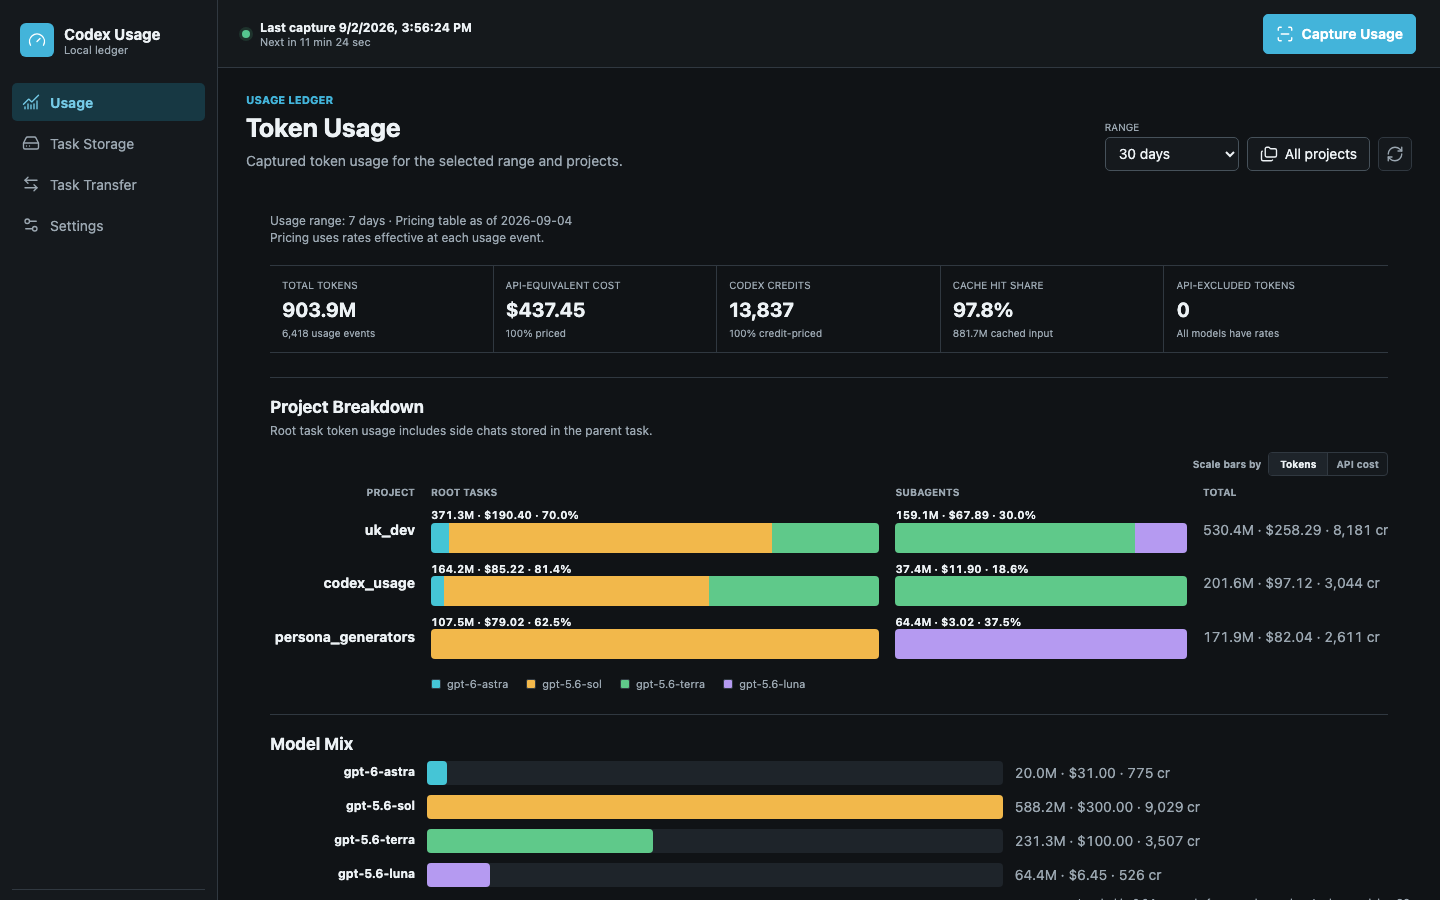
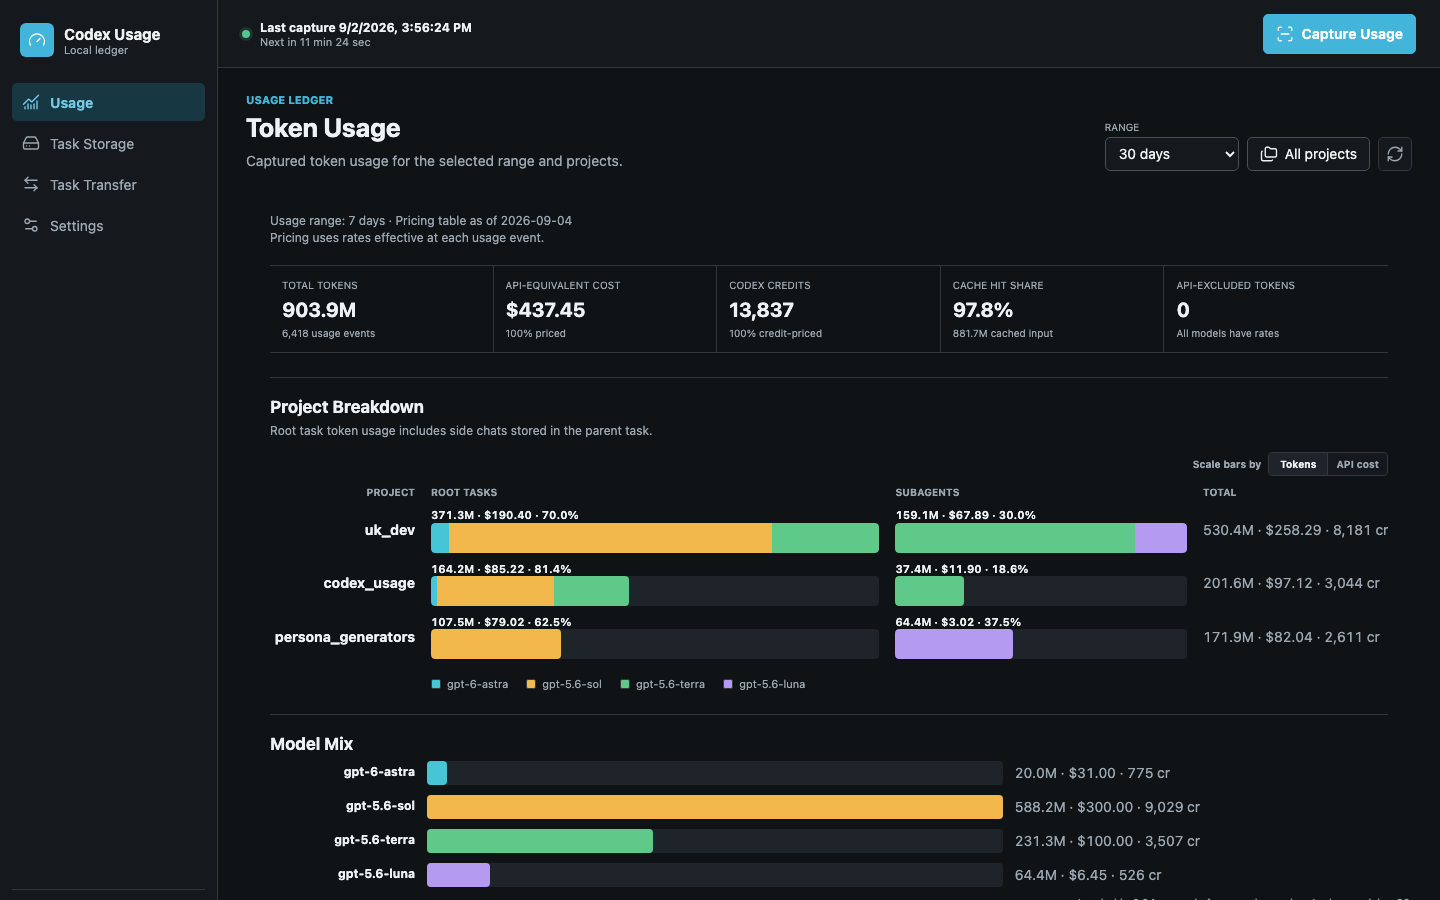
test: exercise usage chart scale fixture

Changed region(s): [[0.375, 0.6222, 0.625, 0.7467], [0.6562, 0.6222, 0.8438, 0.7467], [0.2812, 0.6533, 0.3125, 0.6844]]

diff --git a/apps/desktop/src/usageFixtureReport.ts b/apps/desktop/src/usageFixtureReport.ts
@@ -54,16 +54,27 @@ body {
 h2 { margin: 0 0 4px; font-size: 17px; }
 .help { margin: 0 0 12px; color: var(--muted); font-size: 12px; }
 .project-scroll { overflow-x: auto; }
+.scale-input { position: absolute; width: 1px; height: 1px; opacity: 0; pointer-events: none; }
 .scale-toolbar { display: flex; align-items: center; justify-content: flex-end; gap: 7px; margin-bottom: 9px; color: var(--muted); font-size: 10px; font-weight: 700; }
 .scale-options { display: inline-flex; overflow: hidden; border: 1px solid var(--line); border-radius: 4px; background: var(--surface); }
-.scale-options span { min-width: 58px; padding: 4px 8px; text-align: center; }
-.scale-options span + span { border-left: 1px solid var(--line); }
-.scale-options .selected { background: var(--soft); color: var(--text); }
+.scale-options label { min-width: 58px; padding: 4px 8px; cursor: pointer; text-align: center; }
+.scale-options label + label { border-left: 1px solid var(--line); }
+#project-scale-tokens:checked ~ .scale-toolbar label[for="project-scale-tokens"],
+#project-scale-cost:checked ~ .scale-toolbar label[for="project-scale-cost"] { background: var(--soft); color: var(--text); }
+#project-scale-tokens:focus-visible ~ .scale-toolbar label[for="project-scale-tokens"],
+#project-scale-cost:focus-visible ~ .scale-toolbar label[for="project-scale-cost"] { outline: 2px solid var(--astra); outline-offset: -2px; }
 .project-grid { display: grid; grid-template-columns: 145px minmax(210px, 1fr) minmax(170px, .65fr) 185px; gap: 8px 16px; align-items: center; }
 .column { color: var(--muted); font-size: 10px; font-weight: 700; text-transform: uppercase; }
 .project { text-align: right; }
 .role-metric { font-size: 11px; font-weight: 650; font-variant-numeric: tabular-nums; }
-.track { display: flex; height: 30px; overflow: hidden; border-radius: 4px; background: var(--soft); }
+.track { height: 30px; overflow: hidden; border-radius: 4px; background: var(--soft); }
+.role-fill { display: flex; width: var(--token-width); height: 100%; overflow: hidden; border-radius: 4px; }
+.segment { display: block; flex: 0 0 auto; width: var(--token-width); height: 100%; }
+.cost-share { display: none; }
+#project-scale-cost:checked ~ .project-grid .role-fill,
+#project-scale-cost:checked ~ .project-grid .segment { width: var(--cost-width); }
+#project-scale-cost:checked ~ .project-grid .token-share { display: none; }
+#project-scale-cost:checked ~ .project-grid .cost-share { display: inline; }
 .astra { background: var(--astra); }
 .sol { background: var(--sol); }
 .terra { background: var(--terra); }
@@ -102,20 +113,22 @@ h2 { margin: 0 0 4px; font-size: 17px; }
   <h2>Project Breakdown</h2>
   <p class="help">Root task token usage includes side chats stored in the parent task.</p>
   <div class="project-scroll">
-    <div class="scale-toolbar"><span>Scale bars by</span><span class="scale-options"><span class="selected">Tokens</span><span>API cost</span></span></div>
+    <input class="scale-input" type="radio" name="project-scale" id="project-scale-tokens" value="tokens" checked>
+    <input class="scale-input" type="radio" name="project-scale" id="project-scale-cost" value="cost">
+    <div class="scale-toolbar"><span>Scale bars by</span><span class="scale-options" role="group" aria-label="Project bar scale"><label for="project-scale-tokens">Tokens</label><label for="project-scale-cost">API cost</label></span></div>
     <div class="project-grid">
       <span class="column project">Project</span><span class="column">Root tasks</span><span class="column">Subagents</span><span class="column">Total</span>
       <strong class="project">uk_dev</strong>
-      <div><div class="role-metric">371.3M · $190.40 · 70.0%</div><div class="track"><span class="astra" style="width:4%"></span><span class="sol" style="width:72%"></span><span class="terra" style="width:24%"></span></div></div>
-      <div><div class="role-metric">159.1M · $67.89 · 30.0%</div><div class="track"><span class="terra" style="width:82%"></span><span class="luna" style="width:18%"></span></div></div>
+      <div><div class="role-metric">371.3M · $190.40 · <span class="token-share">70.0%</span><span class="cost-share">73.7%</span></div><div class="track"><div class="role-fill" data-project-key="uk_dev" data-role="root" style="--token-width:100%;--cost-width:100%"><span class="segment astra" style="--token-width:4%;--cost-width:10%"></span><span class="segment sol" style="--token-width:72%;--cost-width:75%"></span><span class="segment terra" style="--token-width:24%;--cost-width:15%"></span></div></div></div>
+      <div><div class="role-metric">159.1M · $67.89 · <span class="token-share">30.0%</span><span class="cost-share">26.3%</span></div><div class="track"><div class="role-fill" data-project-key="uk_dev" data-role="subagent" style="--token-width:100%;--cost-width:100%"><span class="segment terra" style="--token-width:82%;--cost-width:95%"></span><span class="segment luna" style="--token-width:18%;--cost-width:5%"></span></div></div></div>
       <span class="total">530.4M · $258.29 · 8,181 cr</span>
       <strong class="project">codex_usage</strong>
-      <div><div class="role-metric">164.2M · $85.22 · 81.4%</div><div class="track"><span class="astra" style="width:3%"></span><span class="sol" style="width:59%"></span><span class="terra" style="width:38%"></span></div></div>
-      <div><div class="role-metric">37.4M · $11.90 · 18.6%</div><div class="track"><span class="terra" style="width:100%"></span></div></div>
+      <div><div class="role-metric">164.2M · $85.22 · <span class="token-share">81.4%</span><span class="cost-share">87.7%</span></div><div class="track"><div class="role-fill" data-project-key="codex_usage" data-role="root" style="--token-width:44.22%;--cost-width:44.76%"><span class="segment astra" style="--token-width:3%;--cost-width:8%"></span><span class="segment sol" style="--token-width:59%;--cost-width:75%"></span><span class="segment terra" style="--token-width:38%;--cost-width:17%"></span></div></div></div>
+      <div><div class="role-metric">37.4M · $11.90 · <span class="token-share">18.6%</span><span class="cost-share">12.3%</span></div><div class="track"><div class="role-fill" data-project-key="codex_usage" data-role="subagent" style="--token-width:23.51%;--cost-width:17.53%"><span class="segment terra" style="--token-width:100%;--cost-width:100%"></span></div></div></div>
       <span class="total">201.6M · $97.12 · 3,044 cr</span>
       <strong class="project">persona_generators</strong>
-      <div><div class="role-metric">107.5M · $79.02 · 62.5%</div><div class="track"><span class="sol" style="width:100%"></span></div></div>
-      <div><div class="role-metric">64.4M · $3.02 · 37.5%</div><div class="track"><span class="luna" style="width:100%"></span></div></div>
+      <div><div class="role-metric">107.5M · $79.02 · <span class="token-share">62.5%</span><span class="cost-share">96.3%</span></div><div class="track"><div class="role-fill" data-project-key="persona_generators" data-role="root" style="--token-width:28.95%;--cost-width:41.50%"><span class="segment sol" style="--token-width:100%;--cost-width:100%"></span></div></div></div>
+      <div><div class="role-metric">64.4M · $3.02 · <span class="token-share">37.5%</span><span class="cost-share">3.7%</span></div><div class="track"><div class="role-fill" data-project-key="persona_generators" data-role="subagent" style="--token-width:40.48%;--cost-width:4.45%"><span class="segment luna" style="--token-width:100%;--cost-width:100%"></span></div></div></div>
       <span class="total">171.9M · $82.04 · 2,611 cr</span>
     </div>
     <div class="legend">

diff --git a/apps/desktop/src/views.test.ts b/apps/desktop/src/views.test.ts
@@ -113,6 +113,8 @@ describe("native views", () => {
     expect(frame.srcdoc).toContain("Project Breakdown");
     expect(frame.srcdoc).toContain("Scale bars by");
     expect(frame.srcdoc).toContain("API cost");
+    expect(frame.srcdoc).toContain('id="project-scale-cost"');
+    expect(frame.srcdoc).toContain("--cost-width:");
     expect(frame.srcdoc.indexOf("gpt-6-astra")).toBeLessThan(
       frame.srcdoc.indexOf("gpt-5.6-sol"),
     );

diff --git a/scripts/generate_marketplace_screenshot.py b/scripts/generate_marketplace_screenshot.py
@@ -137,6 +137,7 @@ def capture_marketplace_screenshots(
             _wait_for_usage(page)
             _reject_private_fixture_data(page)
             _exercise_theme_modes(page, view="usage")
+            _exercise_usage_chart_controls(page)
             page.screenshot(path=str(usage_path), full_page=False)
 
             page.get_by_role("button", name="Task Storage", exact=True).click()
@@ -197,6 +198,40 @@ def _exercise_theme_modes(page: Page, *, view: str) -> None:
     if colors["day"] == colors["night"]:
         raise RuntimeError(f"{view} day and night themes render the same background")
     _set_viewport(page, VIEWPORT)
+
+
+def _exercise_usage_chart_controls(page: Page) -> None:
+    frame = page.frame_locator("#usage-report")
+    role_fill = frame.locator(
+        '.role-fill[data-project-key="persona_generators"][data-role="subagent"]'
+    )
+    token_box = role_fill.bounding_box()
+    if token_box is None:
+        raise RuntimeError("usage fixture is missing the project role scale probe")
+
+    frame.locator('label[for="project-scale-cost"]').click()
+    if not frame.locator("#project-scale-cost").is_checked():
+        raise RuntimeError("usage fixture did not select the API cost scale")
+    cost_box = role_fill.bounding_box()
+    if cost_box is None or abs(token_box["width"] - cost_box["width"]) < 4:
+        raise RuntimeError("usage fixture API cost scale did not change bar geometry")
+
+    tracks = frame.locator(".mix-track")
+    track_boxes = [tracks.nth(index).bounding_box() for index in range(tracks.count())]
+    if not track_boxes or any(box is None for box in track_boxes):
+        raise RuntimeError("usage fixture is missing Model Mix tracks")
+    first = track_boxes[0]
+    assert first is not None
+    if any(
+        abs(box["x"] - first["x"]) > 1 or abs(box["width"] - first["width"]) > 1
+        for box in track_boxes[1:]
+        if box is not None
+    ):
+        raise RuntimeError("usage fixture Model Mix tracks do not share equal bounds")
+
+    frame.locator('label[for="project-scale-tokens"]').click()
+    if not frame.locator("#project-scale-tokens").is_checked():
+        raise RuntimeError("usage fixture did not restore the token scale")
 
 
 def _reject_private_fixture_data(page: Page) -> None:

diff --git a/tests/test_project_breakdown_html.py b/tests/test_project_breakdown_html.py
@@ -157,6 +157,22 @@ def test_project_breakdown_exposes_distinct_token_and_cost_scales(tmp_path: Path
     )
 
 
+def test_project_breakdown_cost_scale_keeps_unpriced_usage_at_zero_width(
+    tmp_path: Path,
+) -> None:
+    html = _render_report(
+        tmp_path,
+        [_record("root", "unpriced-model", 1_000, project="unpriced")],
+    )
+    project = html.split('data-project-key="unpriced"', 1)[1].split(
+        '<div class="model-legend"', 1
+    )[0]
+
+    assert "--token-width:100.0000%;--cost-width:0.0000%" in project
+    assert project.count("--cost-width:0.0000%") >= 2
+    assert '<span class="project-role-metric-cost">$0.00</span>' in project
+
+
 def test_project_details_and_exact_model_details_keep_complete_disclosures(
     tmp_path: Path,
 ) -> None:
